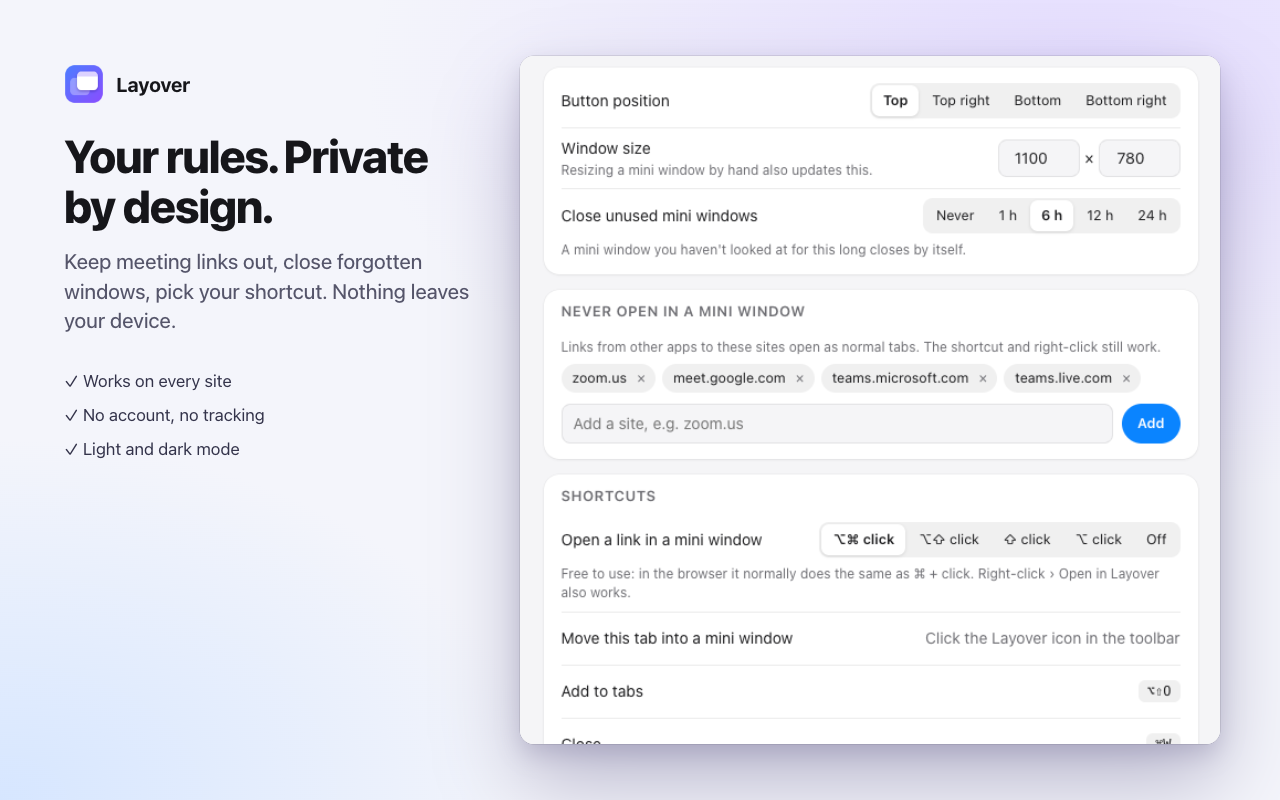
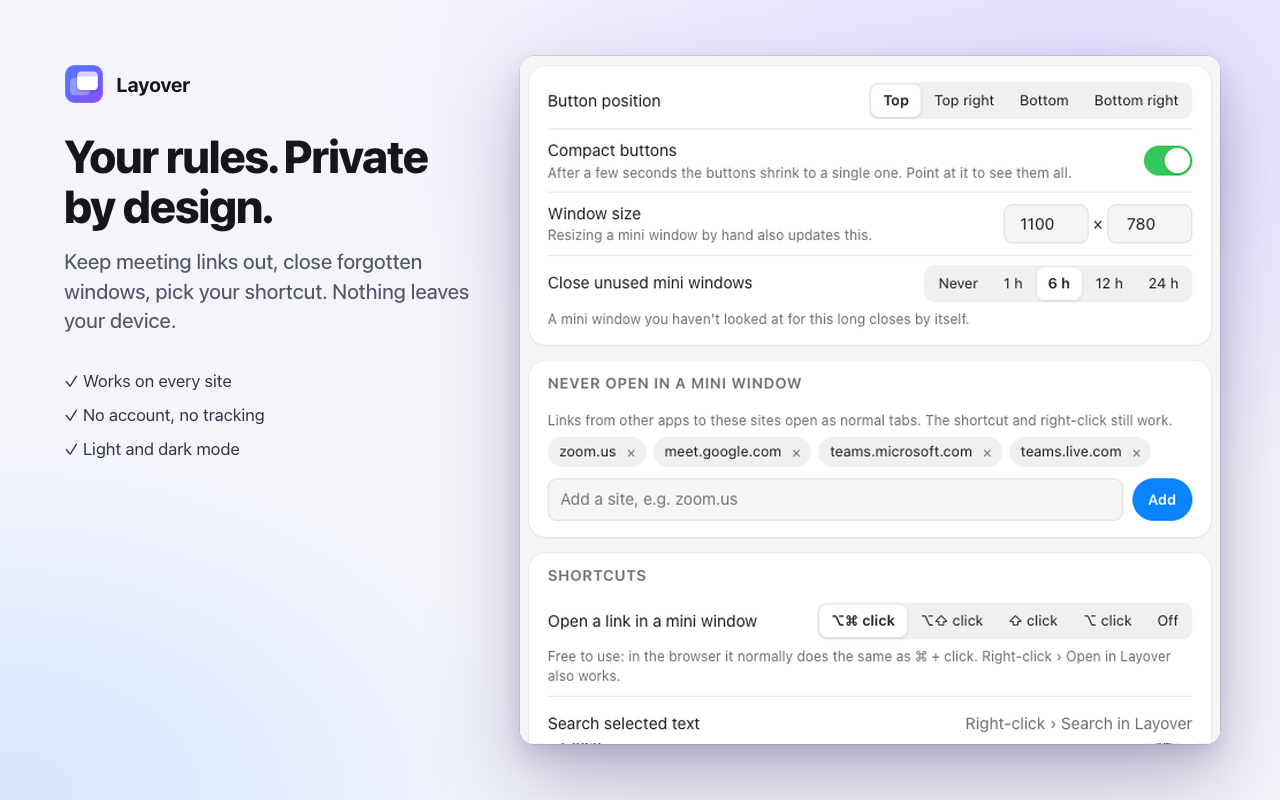
Update privacy policy and settings screenshot for 1.5.1

diff --git a/store/privacy-policy.md b/store/privacy-policy.md
@@ -1,6 +1,6 @@
 # Layover Privacy Policy
 
-_Last updated: 26 October 2026_
+_Last updated: 2 November 2026_
 
 Layover is a browser extension that opens links in a small, temporary window: links that come from other apps, and any link you open with the keyboard shortcut (default ⌥⌘ + click) or with "Open in Layover" in the right-click menu.
 
@@ -11,15 +11,16 @@ Layover is a browser extension that opens links in a small, temporary window: li
 - It has no accounts, analytics, ads or tracking.
 
 ## What stays on your device
-- **Settings:** on/off, animations, button position and window size are saved with the browser's extension storage (`chrome.storage.local`) on your device.
+- **Settings:** on/off, animations, button position, compact buttons, window size, click shortcut, auto-close time and your list of sites that never open in a mini window are saved with the browser's extension storage (`chrome.storage.local`) on your device.
+- **Window position:** while the browser is open, Layover remembers where you last moved a mini window so the next one opens there. This is kept in session storage (`chrome.storage.session`) and is cleared when the browser closes.
 - **Optional diagnostics log:** off by default. If you turn it on in the settings, Layover keeps the last 30 events on your device, with only the website's host name (for example `example.com`), the navigation type and the action taken. Turning it off deletes the log.
 
 ## Permissions
 - **webNavigation:** checks whether a new tab was opened by another app (navigation type only).
-- **scripting and access to all sites:** adds the "Add to tabs" and "Close" buttons to the page shown in a mini window, and lets a small script on each page notice clicks on links made while the shortcut keys are held. That script only looks at the clicked link's address, and only for those clicks.
+- **scripting and access to all sites:** adds the Back, Copy link, "Add to tabs" and Close buttons to the page shown in a mini window, copies the page's address to your clipboard when you press the copy-link shortcut, and lets a small script on each page notice clicks on links made while the shortcut keys are held. That script only looks at the clicked link's address, and only for those clicks.
 - **search:** "Search in Layover" hands the text you selected to the search engine you set as default in your browser, only when you choose that menu item. If the browser can't run that search, the mini window opens a Google search for the same text instead. Layover itself doesn't keep or send it anywhere else.
 - **alarms:** checks every few minutes for mini windows you haven't used for the chosen time and closes them.
-- **storage:** saves your settings (including your list of sites that never open in a mini window).
+- **storage:** saves your settings (including your list of sites that never open in a mini window), and during a browser session remembers which windows are mini windows and where the last one was moved.
 - **contextMenus:** adds "Open in Layover" to the right-click menu of links, "Search in Layover" for selected text, and "Add to tabs" inside mini windows.
 
 ## Contact
@@ -36,7 +37,9 @@ Layover, linkleri küçük, geçici bir pencerede açan bir tarayıcı eklentisi
 - Kişisel veri toplamaz, satmaz, paylaşmaz.
 - Geliştiriciye ya da üçüncü taraflara hiçbir veri göndermez. Eklenti hiçbir ağ isteği yapmaz.
 - Ziyaret ettiğin sitelerin içeriğini okumaz, kaydetmez, değiştirmez.
-- Ayarların (açık/kapalı, animasyonlar, buton konumu, pencere boyutu, hariç tuttuğun siteler) sadece cihazında saklanır.
+- Ayarların (açık/kapalı, animasyonlar, buton konumu, kompakt butonlar, pencere boyutu, kısayol, otomatik kapanma süresi, hariç tuttuğun siteler) sadece cihazında saklanır.
+- Tarayıcı açıkken mini pencereyi en son taşıdığın yer hatırlanır, bir sonraki oraya açılır. Bu bilgi tarayıcı kapanınca silinir.
+- Linki kopyala kısayolu sadece bastığında sayfanın adresini panona kopyalar.
 - "Layover ile ara" seçtiğin metni, sadece bu menü öğesini seçtiğinde, tarayıcında varsayılan olarak ayarlı arama motoruna verir. Tarayıcı bu aramayı yapamazsa aynı metin için Google araması açılır. Layover bu metni saklamaz, başka bir yere göndermez.
 - İsteğe bağlı tanılama kaydı varsayılan olarak kapalıdır. Açılırsa son 30 olay cihazında tutulur ve bunlarda sadece sitenin alan adı, gezinme türü ve yapılan işlem bulunur. Kapatınca kayıt silinir.
 
